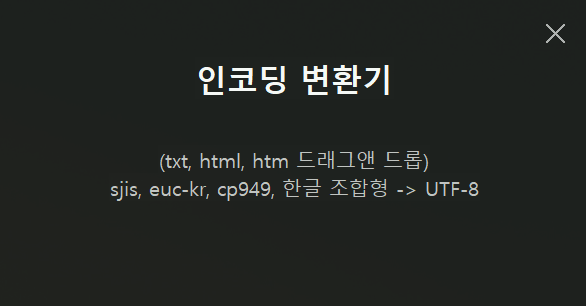
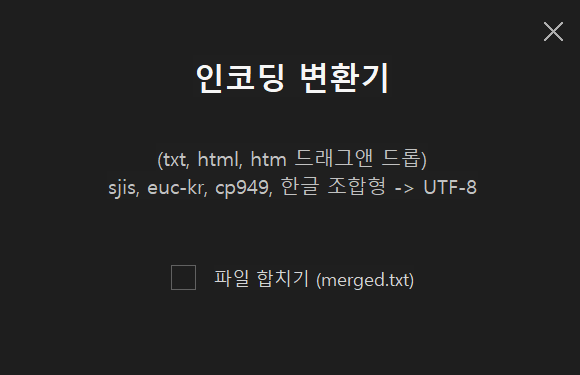
merged

diff --git a/main.cpp b/main.cpp
@@ -1,4 +1,5 @@
 #define WIN32_LEAN_AND_MEAN
+#define _CRT_SECURE_NO_WARNINGS
 #include <windows.h>
 #include <shellapi.h>
 #include <string>
@@ -9,6 +10,7 @@
 #include <objbase.h>
 #include <commctrl.h>
 #include <regex>
+#include <algorithm>
 
 #pragma comment(lib, "comctl32.lib")
 #pragma comment(lib, "ole32.lib")
@@ -28,11 +30,12 @@ namespace fs = std::filesystem;
 
 const wchar_t* CLASS_NAME = L"EncodingConverterPanel";
 const int BASE_WIDTH = 340;
-const int BASE_HEIGHT = 180;
+const int BASE_HEIGHT = 220;
+static bool g_mergeEnabled = false;
 
 LRESULT CALLBACK WindowProc(HWND hwnd, UINT uMsg, WPARAM wParam, LPARAM lParam);
-void ProcessPath(const std::wstring& path, HWND hwnd);
-void ConvertFile(const fs::path& filePath);
+void ProcessPaths(const std::vector<std::wstring>& paths, HWND hwnd);
+std::string ConvertFile(const fs::path& filePath, bool saveIndividual);
 UINT DetectEncoding(const std::vector<char>& buffer);
 
 int GetDpiForWindowCompat(HWND hwnd) {
@@ -87,7 +90,7 @@ int WINAPI wWinMain(HINSTANCE hInstance, HINSTANCE hPrevInstance, PWSTR pCmdLine
     int window_height = Scale(BASE_HEIGHT, dpi);
 
     HWND hwnd = CreateWindowExW(
-        WS_EX_TOPMOST | WS_EX_ACCEPTFILES | WS_EX_LAYERED,
+        WS_EX_ACCEPTFILES | WS_EX_LAYERED,
         CLASS_NAME,
         L"Encoding Converter",
         WS_POPUP,
@@ -155,6 +158,8 @@ LRESULT CALLBACK WindowProc(HWND hwnd, UINT uMsg, WPARAM wParam, LPARAM lParam) 
             CLIP_DEFAULT_PRECIS, CLEARTYPE_QUALITY, VARIABLE_PITCH, L"Malgun Gothic");
         HFONT hFontDesc = CreateFontW(Scale(16, dpi), 0, 0, 0, FW_LIGHT, FALSE, FALSE, FALSE, DEFAULT_CHARSET, OUT_OUTLINE_PRECIS,
             CLIP_DEFAULT_PRECIS, CLEARTYPE_QUALITY, VARIABLE_PITCH, L"Malgun Gothic");
+        HFONT hFontCheck = CreateFontW(Scale(14, dpi), 0, 0, 0, FW_NORMAL, FALSE, FALSE, FALSE, DEFAULT_CHARSET, OUT_OUTLINE_PRECIS,
+            CLIP_DEFAULT_PRECIS, CLEARTYPE_QUALITY, VARIABLE_PITCH, L"Malgun Gothic");
 
         SetTextColor(hdc, RGB(255, 255, 255));
         HGDIOBJ hOldFont = SelectObject(hdc, (HGDIOBJ)hFontTitle);
@@ -168,9 +173,43 @@ LRESULT CALLBACK WindowProc(HWND hwnd, UINT uMsg, WPARAM wParam, LPARAM lParam) 
         rcDesc.top = Scale(85, dpi);
         DrawTextW(hdc, L"(txt, html, htm 드래그앤 드롭)\nsjis, euc-kr, cp949, 한글 조합형 -> UTF-8", -1, &rcDesc, DT_CENTER | DT_TOP);
 
+        // Draw Checkbox
+        SelectObject(hdc, hFontCheck);
+        const wchar_t* checkText = L"파일 합치기 (merged.txt)";
+        RECT rcCalc = { 0, 0, 0, 0 };
+        DrawTextW(hdc, checkText, -1, &rcCalc, DT_CALCRECT | DT_SINGLELINE);
+        int actualTextWidth = rcCalc.right - rcCalc.left;
+        
+        int boxSize = Scale(14, dpi);
+        int margin = Scale(10, dpi);
+        int totalWidth = boxSize + margin + actualTextWidth;
+        int startX = (rect.right - totalWidth) / 2;
+        int boxTop = Scale(155, dpi);
+        
+        RECT boxRect = { startX, boxTop, startX + boxSize, boxTop + boxSize };
+        
+        HPEN hBoxPen = CreatePen(PS_SOLID, 1, RGB(100, 100, 100));
+        HGDIOBJ hOldPen2 = SelectObject(hdc, hBoxPen);
+        Rectangle(hdc, boxRect.left, boxRect.top, boxRect.right, boxRect.bottom);
+        if (g_mergeEnabled) {
+            HPEN hCheckPen = CreatePen(PS_SOLID, 2, RGB(0, 255, 128));
+            SelectObject(hdc, hCheckPen);
+            MoveToEx(hdc, boxRect.left + Scale(3, dpi), boxRect.top + Scale(5, dpi), NULL);
+            LineTo(hdc, boxRect.left + Scale(6, dpi), boxRect.bottom - Scale(3, dpi));
+            LineTo(hdc, boxRect.right - Scale(2, dpi), boxTop + Scale(3, dpi));
+            DeleteObject(hCheckPen);
+        }
+        SelectObject(hdc, hOldPen2);
+        DeleteObject(hBoxPen);
+
+        RECT rcCheckText = { boxRect.right + margin, boxTop - Scale(1, dpi), boxRect.right + margin + actualTextWidth, boxTop + boxSize + Scale(1, dpi) };
+        SetTextColor(hdc, RGB(220, 220, 220));
+        DrawTextW(hdc, checkText, -1, &rcCheckText, DT_LEFT | DT_VCENTER | DT_SINGLELINE);
+
         SelectObject(hdc, hOldFont);
         DeleteObject(hFontTitle);
         DeleteObject(hFontDesc);
+        DeleteObject(hFontCheck);
 
         EndPaint(hwnd, &ps);
         return 0;
@@ -228,11 +267,44 @@ LRESULT CALLBACK WindowProc(HWND hwnd, UINT uMsg, WPARAM wParam, LPARAM lParam) 
             InvalidateRect(GetDlgItem(hwnd, 1), NULL, FALSE);
         }
         break;
-    case WM_LBUTTONDOWN:
+    case WM_LBUTTONDOWN: {
+        POINT pt;
+        GetCursorPos(&pt);
+        ScreenToClient(hwnd, &pt);
+        int dpi = GetDpiForWindowCompat(hwnd);
+
+        HDC hdc = GetDC(hwnd);
+        HFONT hFontCheck = CreateFontW(Scale(14, dpi), 0, 0, 0, FW_NORMAL, FALSE, FALSE, FALSE, DEFAULT_CHARSET, OUT_OUTLINE_PRECIS,
+            CLIP_DEFAULT_PRECIS, CLEARTYPE_QUALITY, VARIABLE_PITCH, L"Malgun Gothic");
+        HGDIOBJ hOldFont = SelectObject(hdc, hFontCheck);
+        const wchar_t* checkText = L"파일 합치기 (merged.txt)";
+        RECT rcCalc = { 0, 0, 0, 0 };
+        DrawTextW(hdc, checkText, -1, &rcCalc, DT_CALCRECT | DT_SINGLELINE);
+        int actualTextWidth = rcCalc.right - rcCalc.left;
+        SelectObject(hdc, hOldFont);
+        DeleteObject(hFontCheck);
+        ReleaseDC(hwnd, hdc);
+
+        int boxSize = Scale(14, dpi);
+        int margin = Scale(10, dpi);
+        int totalWidth = boxSize + margin + actualTextWidth;
+        RECT rect;
+        GetClientRect(hwnd, &rect);
+        int startX = (rect.right - totalWidth) / 2;
+        int boxTop = Scale(155, dpi);
+        RECT rcHit = { startX, boxTop, startX + totalWidth, boxTop + boxSize };
+        
+        if (PtInRect(&rcHit, pt)) {
+            g_mergeEnabled = !g_mergeEnabled;
+            InvalidateRect(hwnd, NULL, FALSE);
+            return 0;
+        }
+        
         dragging = true;
         GetCursorPos(&lastMouse);
         SetCapture(hwnd);
         break;
+    }
     case WM_LBUTTONUP:
         dragging = false;
         ReleaseCapture();
@@ -252,12 +324,14 @@ LRESULT CALLBACK WindowProc(HWND hwnd, UINT uMsg, WPARAM wParam, LPARAM lParam) 
     case WM_DROPFILES: {
         HDROP hDrop = (HDROP)wParam;
         UINT fileCount = DragQueryFileW(hDrop, 0xFFFFFFFF, NULL, 0);
+        std::vector<std::wstring> paths;
         for (UINT i = 0; i < fileCount; i++) {
             wchar_t filePath[MAX_PATH];
             DragQueryFileW(hDrop, i, filePath, MAX_PATH);
-            ProcessPath(filePath, hwnd);
+            paths.push_back(filePath);
         }
         DragFinish(hDrop);
+        ProcessPaths(paths, hwnd);
         MessageBoxW(hwnd, L"변환 완료!", L"성공", MB_OK | MB_ICONINFORMATION);
         return 0;
     }
@@ -281,17 +355,39 @@ LRESULT CALLBACK WindowProc(HWND hwnd, UINT uMsg, WPARAM wParam, LPARAM lParam) 
     return DefWindowProcW(hwnd, uMsg, wParam, lParam);
 }
 
-void ProcessPath(const std::wstring& path, HWND hwnd) {
-    try {
-        fs::path p(path);
-        if (fs::is_directory(p)) {
-            for (const auto& entry : fs::recursive_directory_iterator(p)) {
-                if (fs::is_regular_file(entry)) ConvertFile(entry.path());
+void ProcessPaths(const std::vector<std::wstring>& paths, HWND hwnd) {
+    std::vector<fs::path> allFiles;
+    for (const auto& path : paths) {
+        try {
+            fs::path p(path);
+            if (fs::is_directory(p)) {
+                for (const auto& entry : fs::recursive_directory_iterator(p)) {
+                    if (fs::is_regular_file(entry)) allFiles.push_back(entry.path());
+                }
+            } else if (fs::is_regular_file(p)) {
+                allFiles.push_back(p);
             }
-        } else if (fs::is_regular_file(p)) {
-            ConvertFile(p);
+        } catch (...) {}
+    }
+
+    if (allFiles.empty()) return;
+
+    std::sort(allFiles.begin(), allFiles.end());
+
+    std::string mergedContent;
+    for (const auto& filePath : allFiles) {
+        std::string content = ConvertFile(filePath, true);
+        if (g_mergeEnabled && !content.empty()) {
+            if (!mergedContent.empty()) mergedContent += "\r\n\r\n";
+            mergedContent += content;
         }
-    } catch (...) {}
+    }
+
+    if (g_mergeEnabled && !mergedContent.empty()) {
+        fs::path outDir = allFiles[0].parent_path();
+        std::ofstream outFile(outDir / "merged.txt", std::ios::binary);
+        if (outFile) outFile.write(mergedContent.data(), mergedContent.size());
+    }
 }
 
 bool IsValidUtf8(const std::vector<char>& buffer) {
@@ -404,34 +500,41 @@ UINT DetectEncoding(const std::vector<char>& buffer) {
     return 949; // Default fallback for Korean environment
 }
 
-void ConvertFile(const fs::path& filePath) {
+std::string ConvertFile(const fs::path& filePath, bool saveIndividual) {
     std::wstring ext = filePath.extension().wstring();
     for (auto& c : ext) c = (wchar_t)towlower(c);
-    if (ext != L".txt" && ext != L".html" && ext != L".htm") return;
+    if (ext != L".txt" && ext != L".html" && ext != L".htm") return "";
 
     std::ifstream file(filePath, std::ios::binary);
-    if (!file) return;
+    if (!file) return "";
     std::vector<char> buffer((std::istreambuf_iterator<char>(file)), std::istreambuf_iterator<char>());
     file.close();
-    if (buffer.empty()) return;
+    if (buffer.empty()) return "";
 
     UINT srcCP = DetectEncoding(buffer);
-    if (srcCP == 65001) return;
+    std::string u8str;
 
-    int wlen = MultiByteToWideChar(srcCP, 0, buffer.data(), (int)buffer.size(), NULL, 0);
-    if (wlen <= 0) return;
-    std::wstring wstr(wlen, 0);
-    MultiByteToWideChar(srcCP, 0, buffer.data(), (int)buffer.size(), &wstr[0], wlen);
+    if (srcCP == 65001) {
+        u8str = std::string(buffer.begin(), buffer.end());
+    } else {
+        int wlen = MultiByteToWideChar(srcCP, 0, buffer.data(), (int)buffer.size(), NULL, 0);
+        if (wlen <= 0) return "";
+        std::wstring wstr(wlen, 0);
+        MultiByteToWideChar(srcCP, 0, buffer.data(), (int)buffer.size(), &wstr[0], wlen);
 
-    int u8len = WideCharToMultiByte(CP_UTF8, 0, wstr.data(), (int)wstr.size(), NULL, 0, NULL, NULL);
-    if (u8len <= 0) return;
-    std::string u8str(u8len, 0);
-    WideCharToMultiByte(CP_UTF8, 0, wstr.data(), (int)wstr.size(), &u8str[0], u8len, NULL, NULL);
+        int u8len = WideCharToMultiByte(CP_UTF8, 0, wstr.data(), (int)wstr.size(), NULL, 0, NULL, NULL);
+        if (u8len <= 0) return "";
+        u8str.assign(u8len, 0);
+        WideCharToMultiByte(CP_UTF8, 0, wstr.data(), (int)wstr.size(), &u8str[0], u8len, NULL, NULL);
 
-    fs::path outPath = filePath;
-    std::wstring stem = outPath.stem().wstring();
-    std::wstring newExt = outPath.extension().wstring();
-    outPath.replace_filename(stem + L"_u" + newExt);
-    std::ofstream outFile(outPath, std::ios::binary);
-    if (outFile) outFile.write(u8str.data(), u8str.size());
+        if (saveIndividual) {
+            fs::path outPath = filePath;
+            std::wstring stem = outPath.stem().wstring();
+            std::wstring newExt = outPath.extension().wstring();
+            outPath.replace_filename(stem + L"_u" + newExt);
+            std::ofstream outFile(outPath, std::ios::binary);
+            if (outFile) outFile.write(u8str.data(), u8str.size());
+        }
+    }
+    return u8str;
 }

diff --git a/README.md b/README.md
@@ -12,12 +12,15 @@
 - **드래그 앤 드롭 지원**: 파일이나 폴더를 프로그램 창으로 드래그하여 간편하게 변환할 수 있습니다.
 - **다중 파일 및 폴더 처리**: 여러 개의 파일이나 폴더를 한꺼번에 처리하며, 폴더 내의 하위 디렉토리까지 재귀적으로 탐색합니다.
 - **파일명 변경**: 변환된 파일은 원래 파일명 뒤에 `_u`가 붙어서 저장됩니다 (예: `test.txt` -> `test_u.txt`).
+- **파일 합치기 (merged.txt)**: "파일 합치기" 옵션을 체크하면 변환된 모든 파일이 하나로 합쳐진 `merged.txt` 파일이 생성됩니다.
+- **이름순 정렬**: 파일 합치기 시 파일 이름순으로 정렬하여 합칩니다.
 - **대상 확장자**: `.txt`, `.html`, `.htm` 파일을 지원합니다.
 
 ## 사용 방법
 1. `EncodingConverter.exe`를 실행합니다.
-2. 변환하고자 하는 파일이나 폴더를 프로그램 창 위로 드래그 앤 드롭합니다.
-3. 변환이 완료되면 "Conversion Complete!" 메시지가 표시됩니다.
+2. (선택 사항) 파일을 하나로 합치고 싶다면 하단의 **"파일 합치기 (merged.txt)"** 체크박스를 활성화합니다.
+3. 변환하고자 하는 파일이나 폴더를 프로그램 창 위로 드래그 앤 드롭합니다.
+4. 변환이 완료되면 "변환 완료!" 또는 "성공" 메시지가 표시됩니다.
 
 ## 🚀 사용 위치 및 다운로드
 
